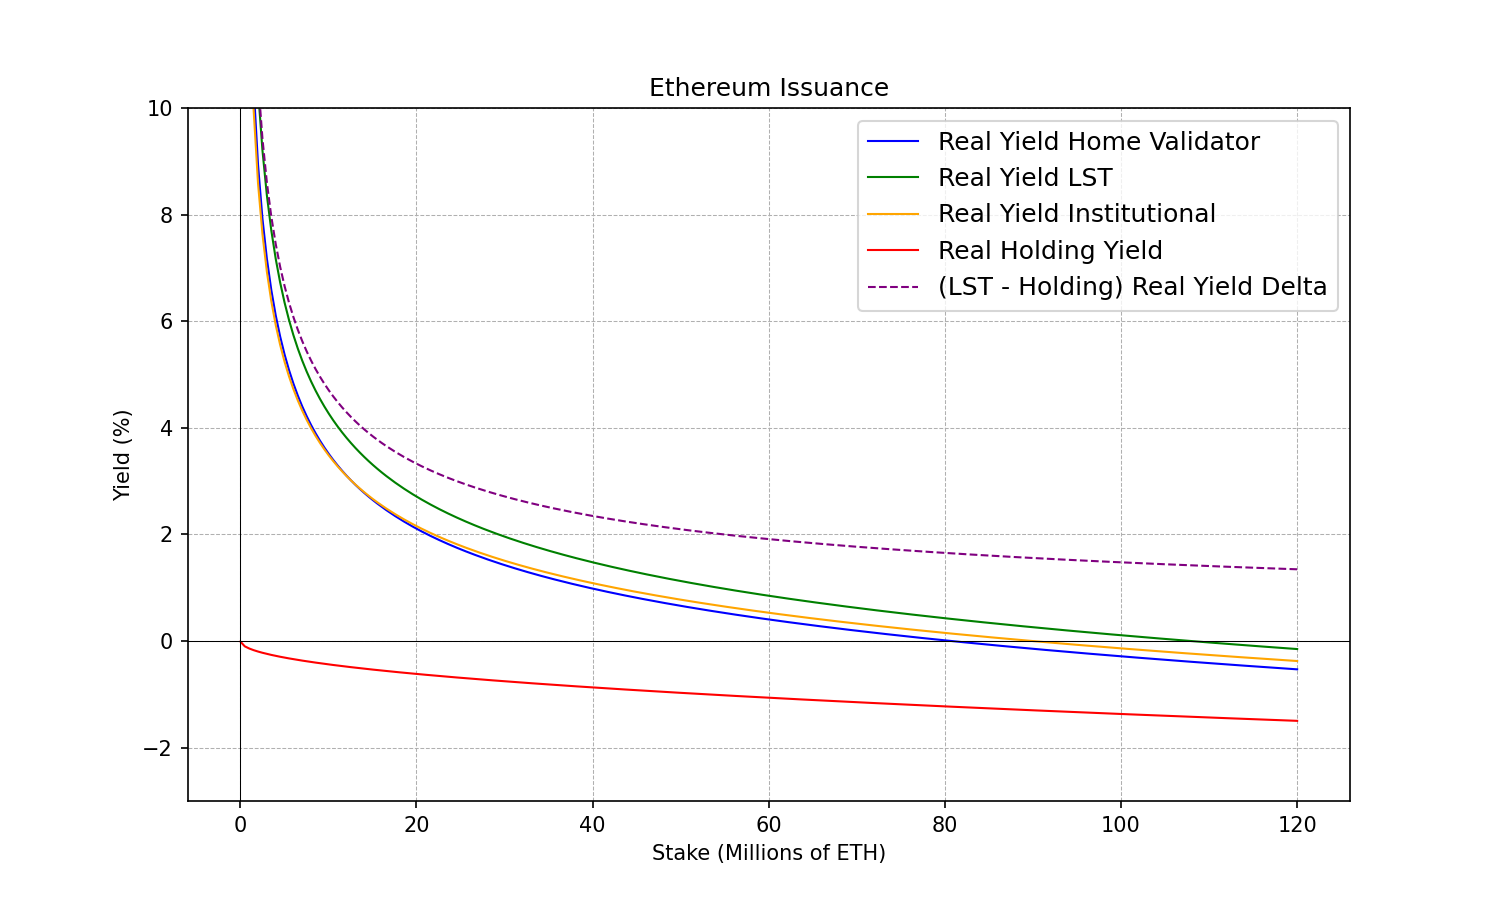
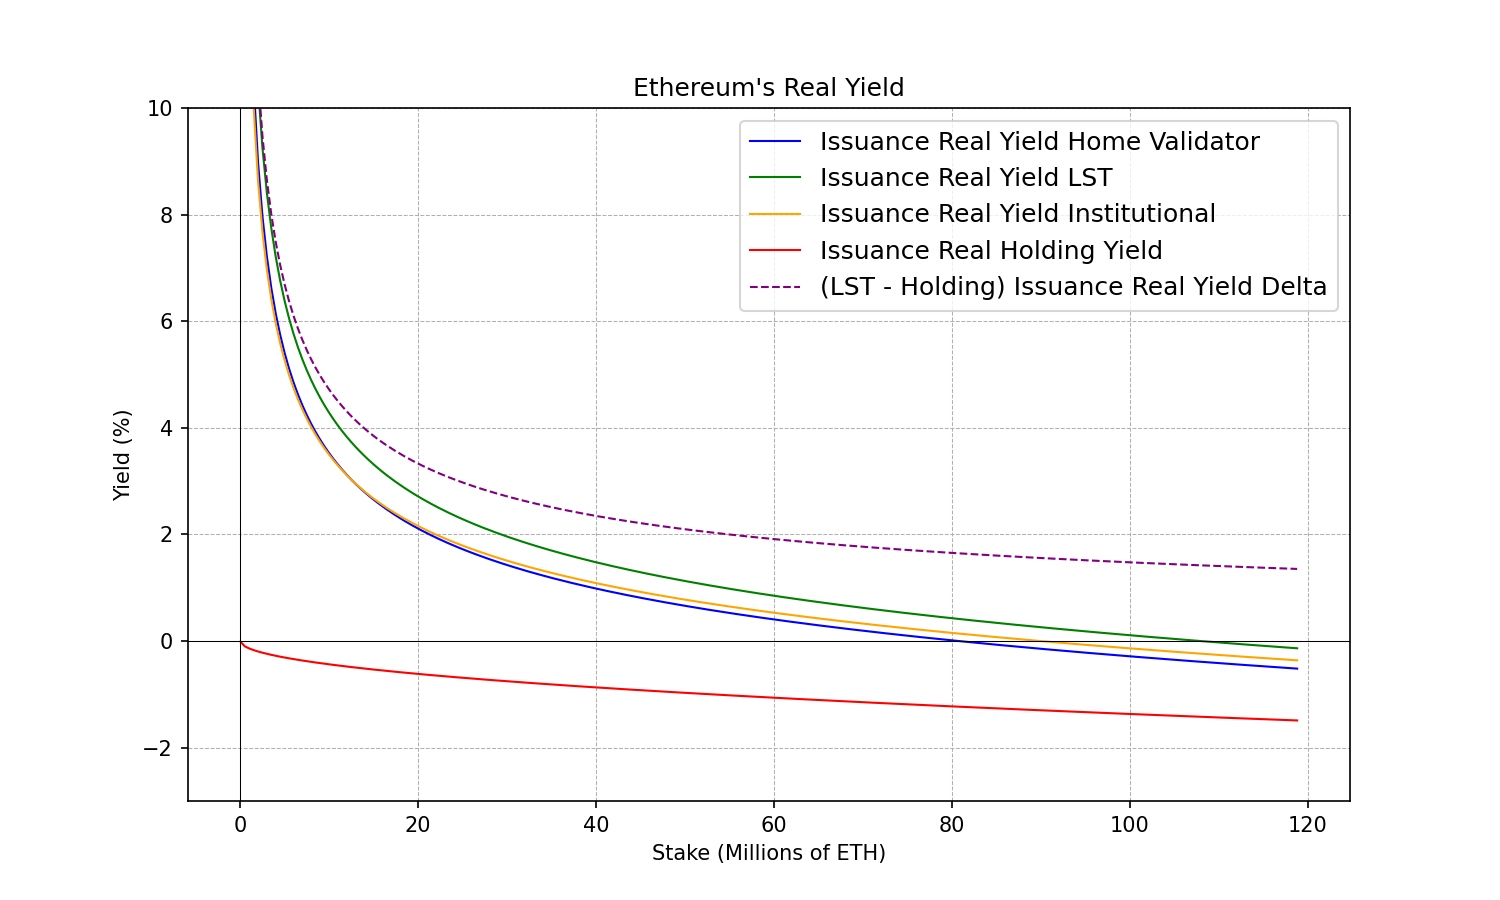
tweak title

diff --git a/plots/ethereum_issuance/real_yield_plot.py b/plots/ethereum_issuance/real_yield_plot.py
@@ -3,6 +3,6 @@ from plots.real_yield_plot import plot
 from common import CIRCULATING_SUPPLY
 
 plot(ethereum_issuance_yield,
-     title="Ethereum Issuance",
+     title="Ethereum's Real Yield",
      circulating_supply=CIRCULATING_SUPPLY,
      filename="ethereum_real_yield_plot.png")
